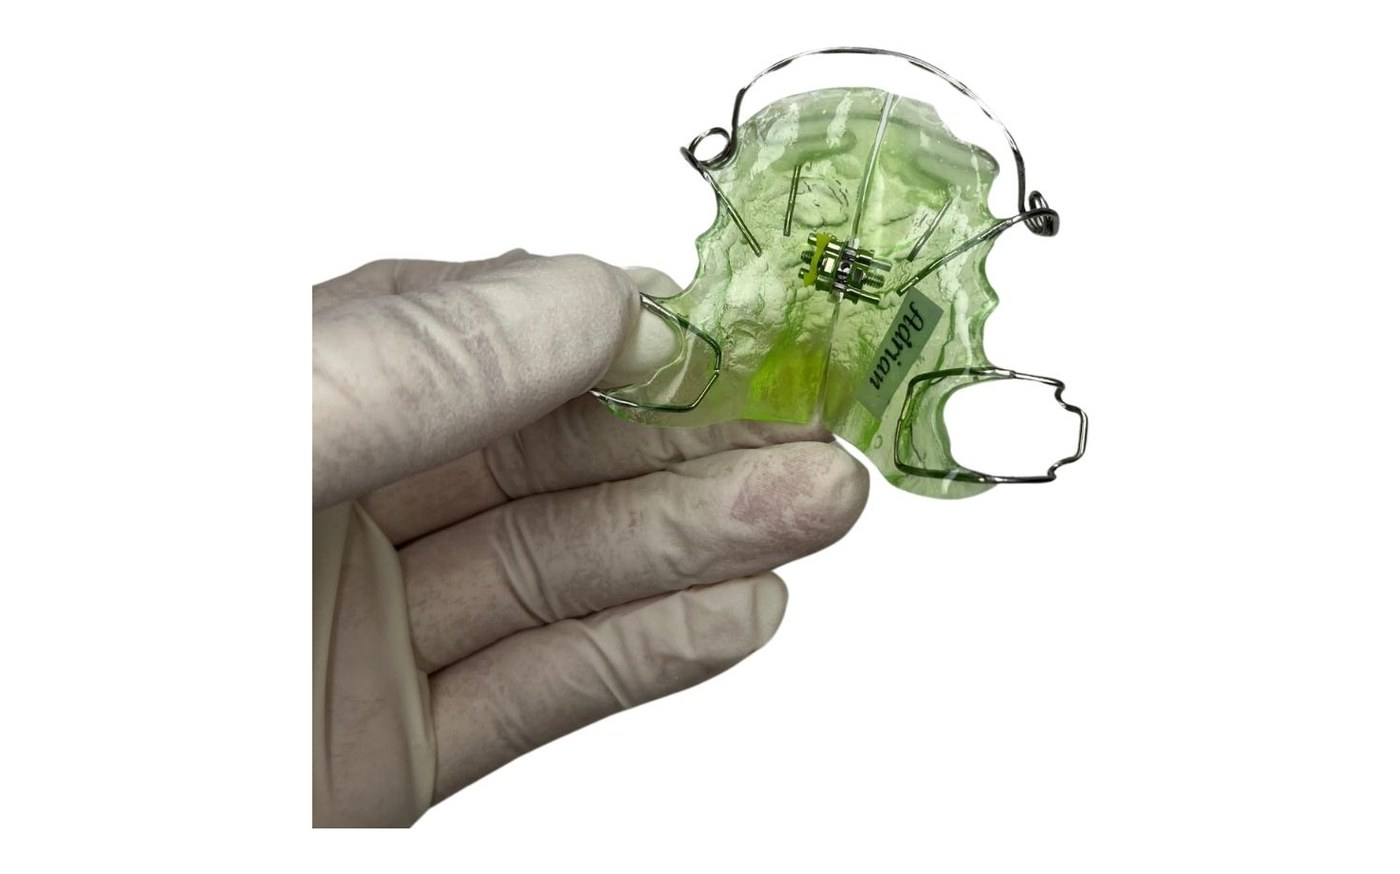
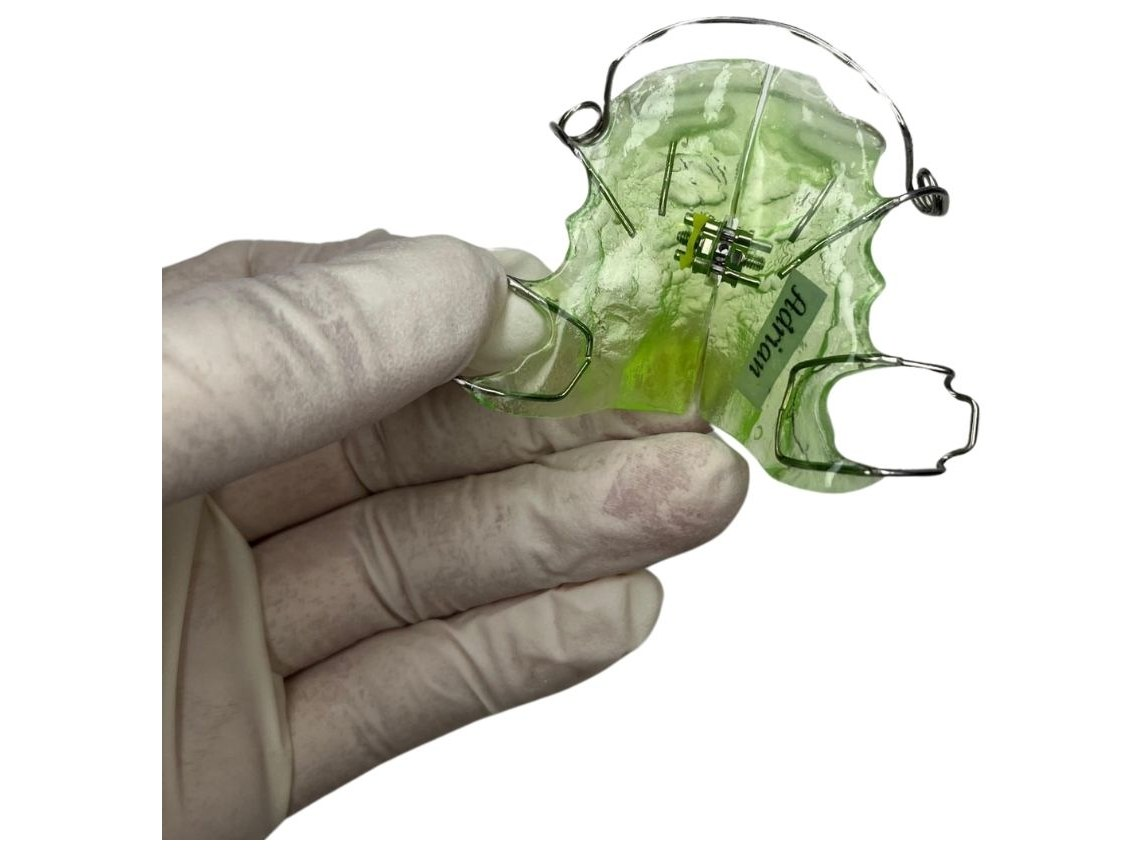
Ortodoncia: la foto de portada llena la caja en movil
Claude-Session: https://claude.ai/code/session_01G9ySE2q82eBR5v7f2bLYwG

diff --git a/corporativa/trabajos/ortodoncia.html b/corporativa/trabajos/ortodoncia.html
@@ -154,6 +154,10 @@ h2.big2 em { font-style:normal; color:var(--goldd); }
   .tfoot { flex-direction:column; align-items:flex-start; }
   .scriptb { align-self:flex-end; }
 }
+
+/* portada: la foto es 4:3 y llena la caja */
+.lhud .ph { padding:10px; }
+@media (max-width:760px) { .lhud .ph { height:auto; aspect-ratio:4/3; padding:8px; } }
 </style></head><body>
 <div class="topbar">Laboratorio de pr&oacute;tesis dental digital &middot; Madrid &middot; Desde 1990</div>
 <nav class="top"><div class="in">
